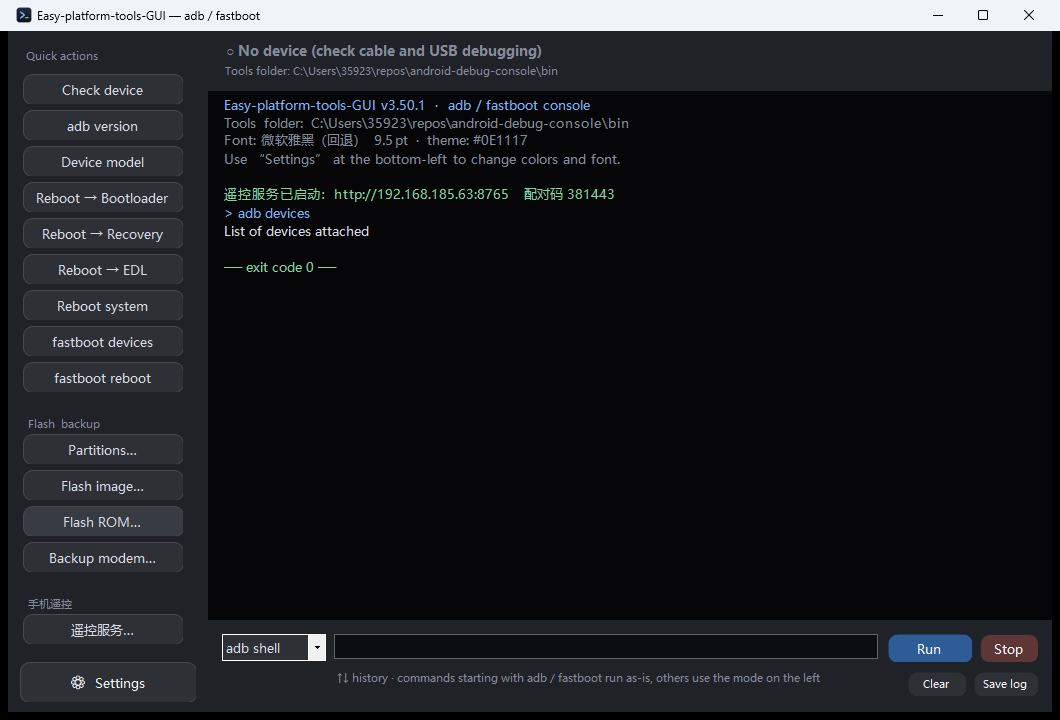
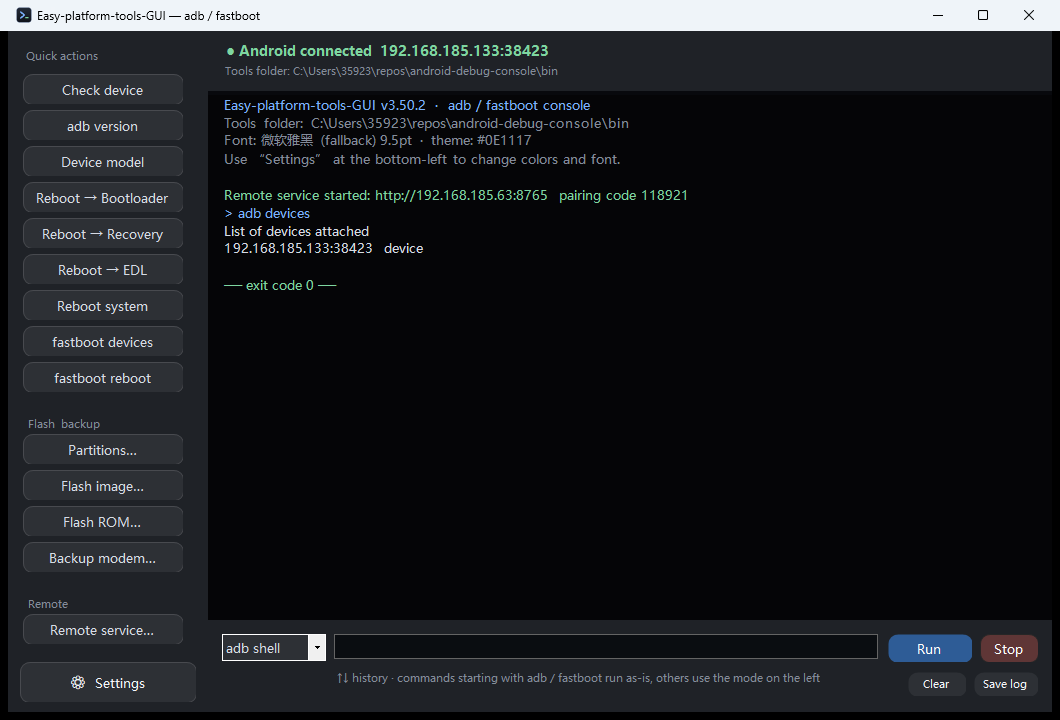
fix(win): ?????????? (3.50.2)
- ???????????:. ??? xxxxxx?????? -> Remote service started: . pairing code xxxxxx
  ????????????:??????:?????
- ?????????????.?????? -> Remote / Remote service.
- ?????????(??)?-> ????? (fallback)

Windows ???? 3.50.2;Android ???,?? 3.50.1?

diff --git a/src/Lang.cs b/src/Lang.cs
@@ -1,4 +1,4 @@
-// Easy-platform-tools-GUI — 语言表
+// Easy-platform-tools-GUI — 语言表
 // 中文是源码里的原始文案，英文在这里按「精确匹配」和「正则模板」两种方式映射。
 
 using System;
@@ -36,6 +36,8 @@ namespace EasyPlatformTools
             { "刷入镜像…", "Flash image…" },
             { "线刷 ROM…", "Flash ROM…" },
             { "备份基带…", "Backup modem…" },
+            { "手机遥控", "Remote" },
+            { "遥控服务…", "Remote service…" },
             { "⚙  设置", "⚙  Settings" },
 
             // 主界面
@@ -196,6 +198,10 @@ namespace EasyPlatformTools
             R(@"^字体：(.*)$", "Font: $1"),
             R(@"^字体：(\S+) (\S+)　·　主题：(\S+)$", "Font: $1 $2  ·  theme: $3"),
             R(@"^Easy-platform-tools-GUI v(\S+)　·　adb / fastboot 命令控制台$", "Easy-platform-tools-GUI v$1  ·  adb / fastboot console"),
+            R(@"^遥控服务已启动：(\S+)　配对码 (\S+)$", "Remote service started: $1  pairing code $2"),
+            R(@"^遥控服务已启动：(\S+)　（未设配对码）$", "Remote service started: $1  (no pairing code)"),
+            R(@"^遥控服务启动失败：(.*)$", "Remote service failed to start: $1"),
+            R(@"^拖入文件：(.*)$", "Dropped file: $1"),
             R(@"^> (.*)$", "> $1"),
             R(@"^已保存：(.*)$", "Saved: $1"),
             R(@"^已导出：(.*)$", "Exported: $1"),

diff --git a/src/EasyPlatformTools.cs b/src/EasyPlatformTools.cs
@@ -28,7 +28,7 @@ namespace EasyPlatformTools
 
         private const int ATTACH_PARENT_PROCESS = -1;
 
-        private const string AppVersion = "3.50.1";
+        private const string AppVersion = "3.50.2";
         private const string AppRepo = "https://github.com/moqi12386/Easy-platform-tools-GUI";
 
         // 首次运行时自动下载的镜像源：按顺序尝试，全部为官方或与官方逐字节一致的镜像
@@ -378,7 +378,7 @@ namespace EasyPlatformTools
         {
             FontFamily f = ResolveFamily(fontName);
             if (f != null) { return f.Name; }
-            return FallbackFamily().Name + "（回退）";
+            return FallbackFamily().Name + (Lang.IsEn ? " (fallback)" : "（回退）");
         }
 
         private static void BuildFonts()
